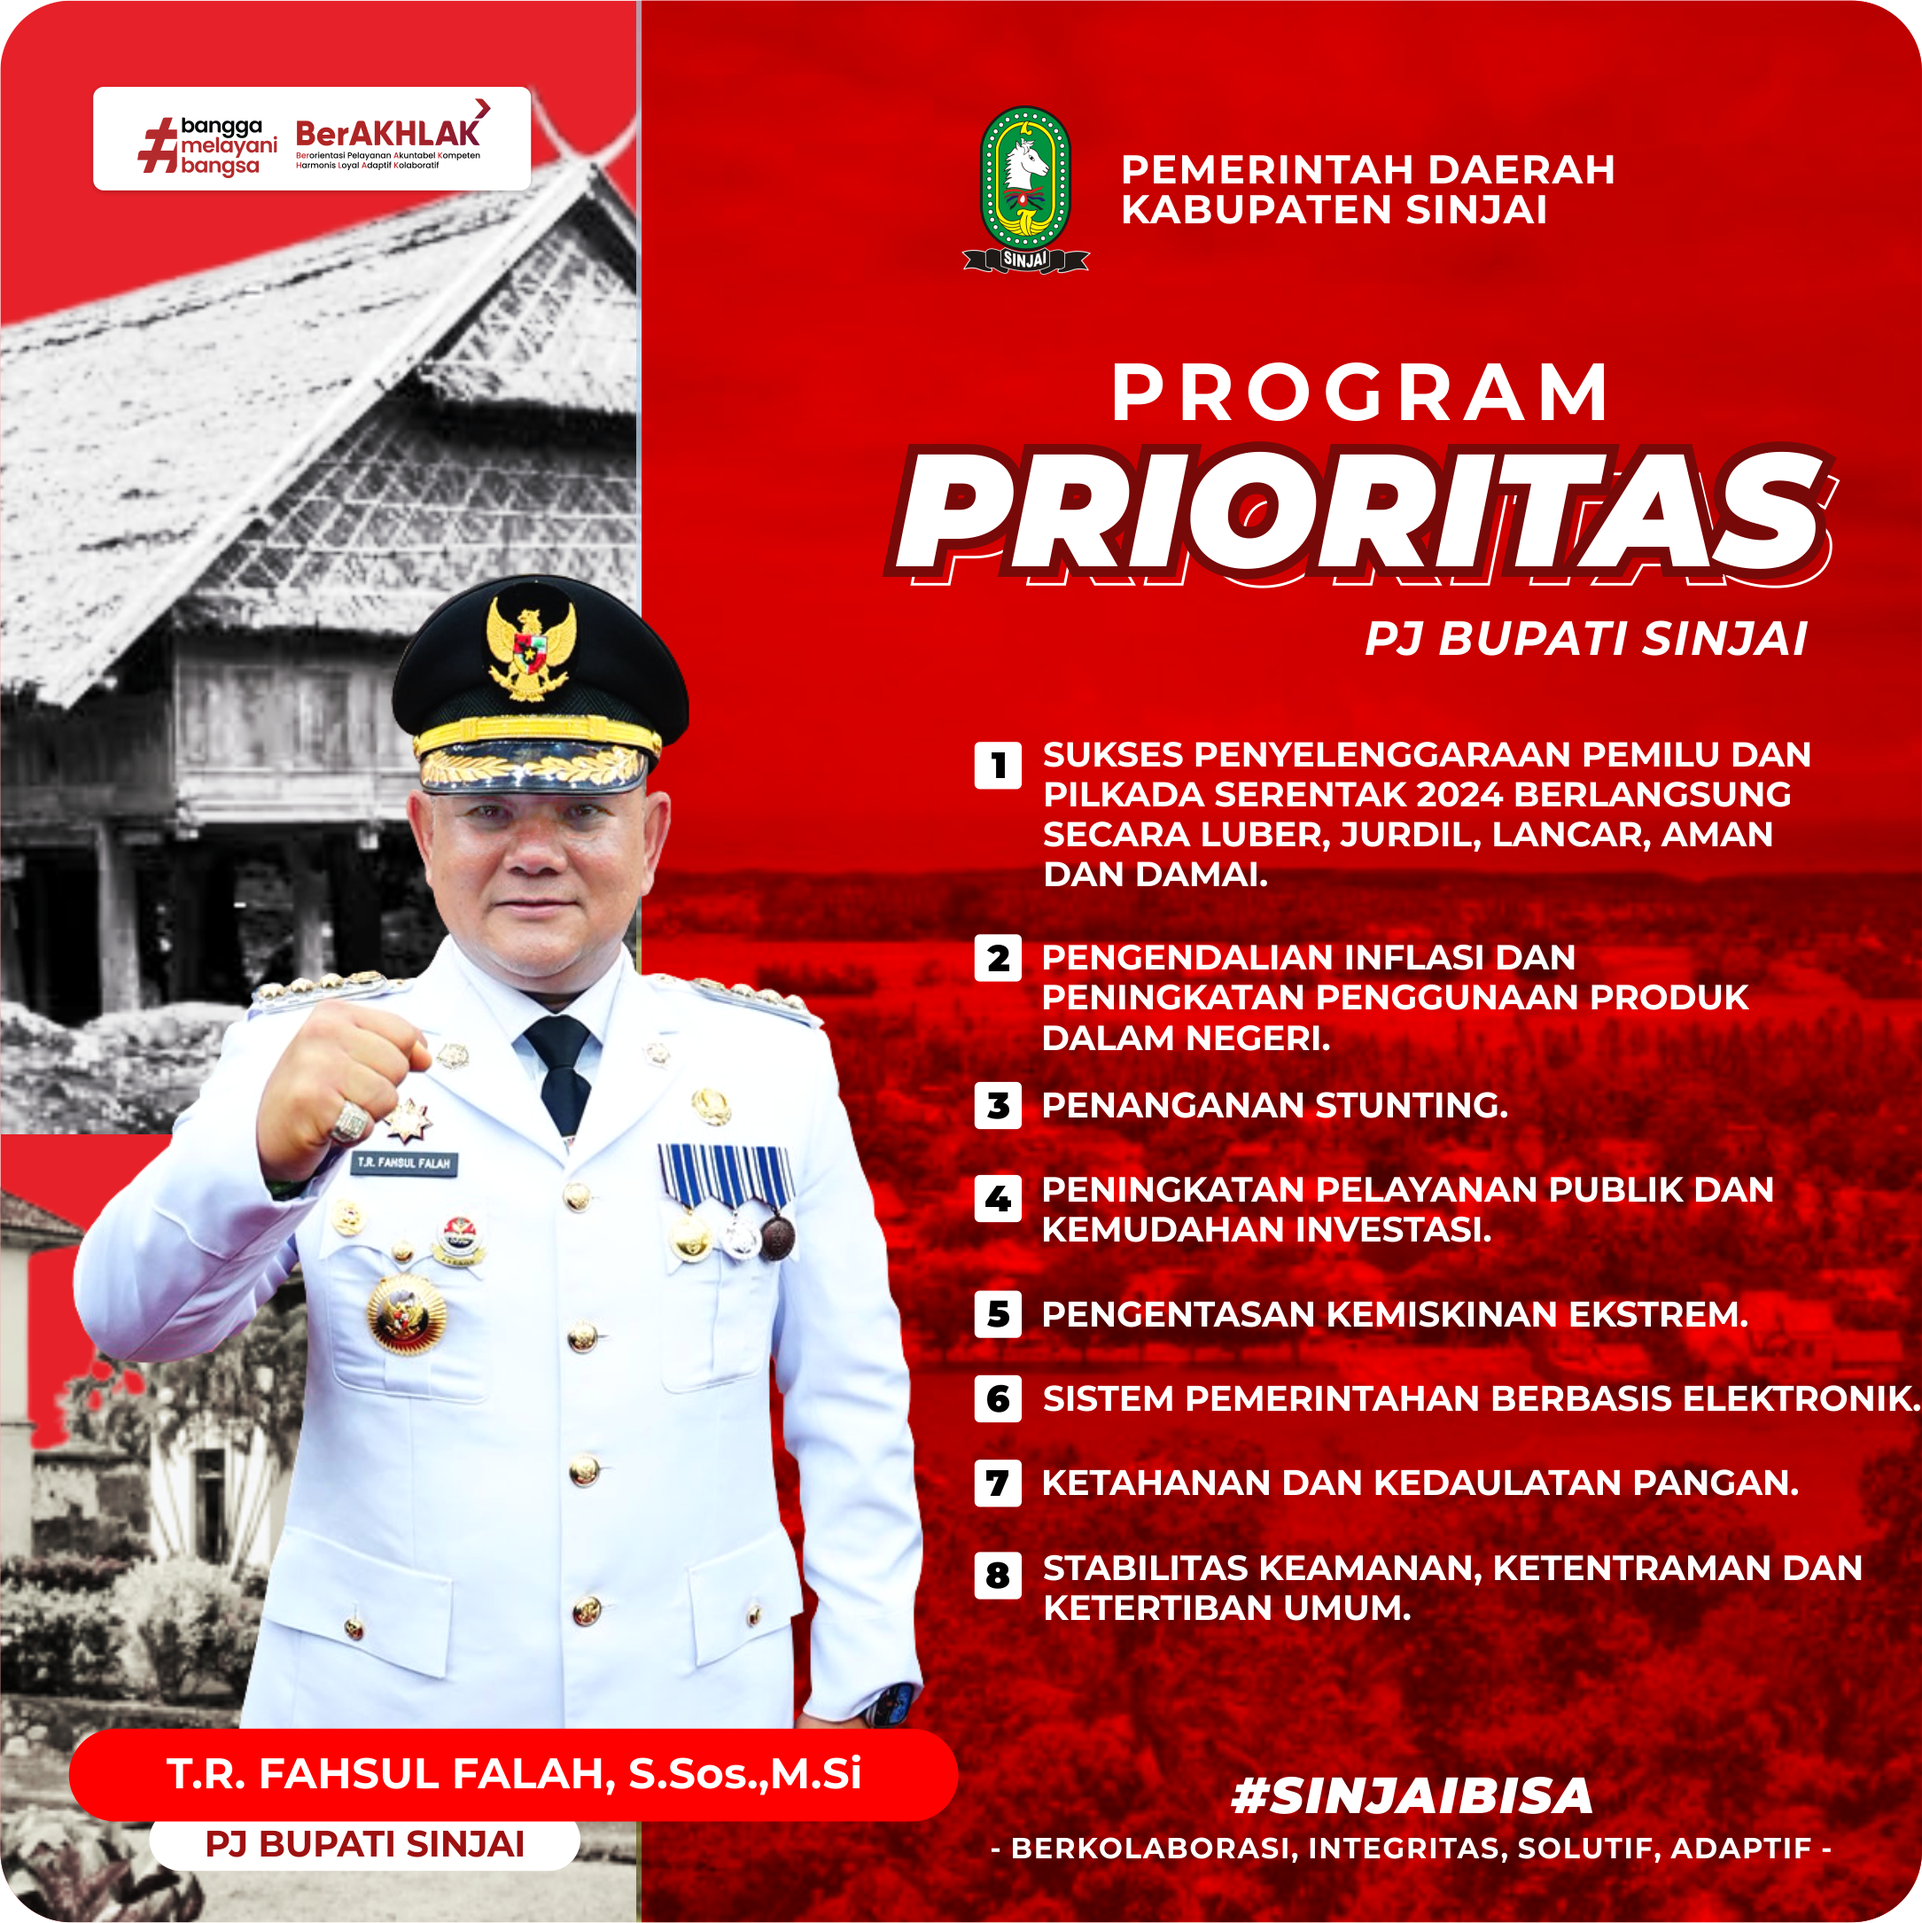
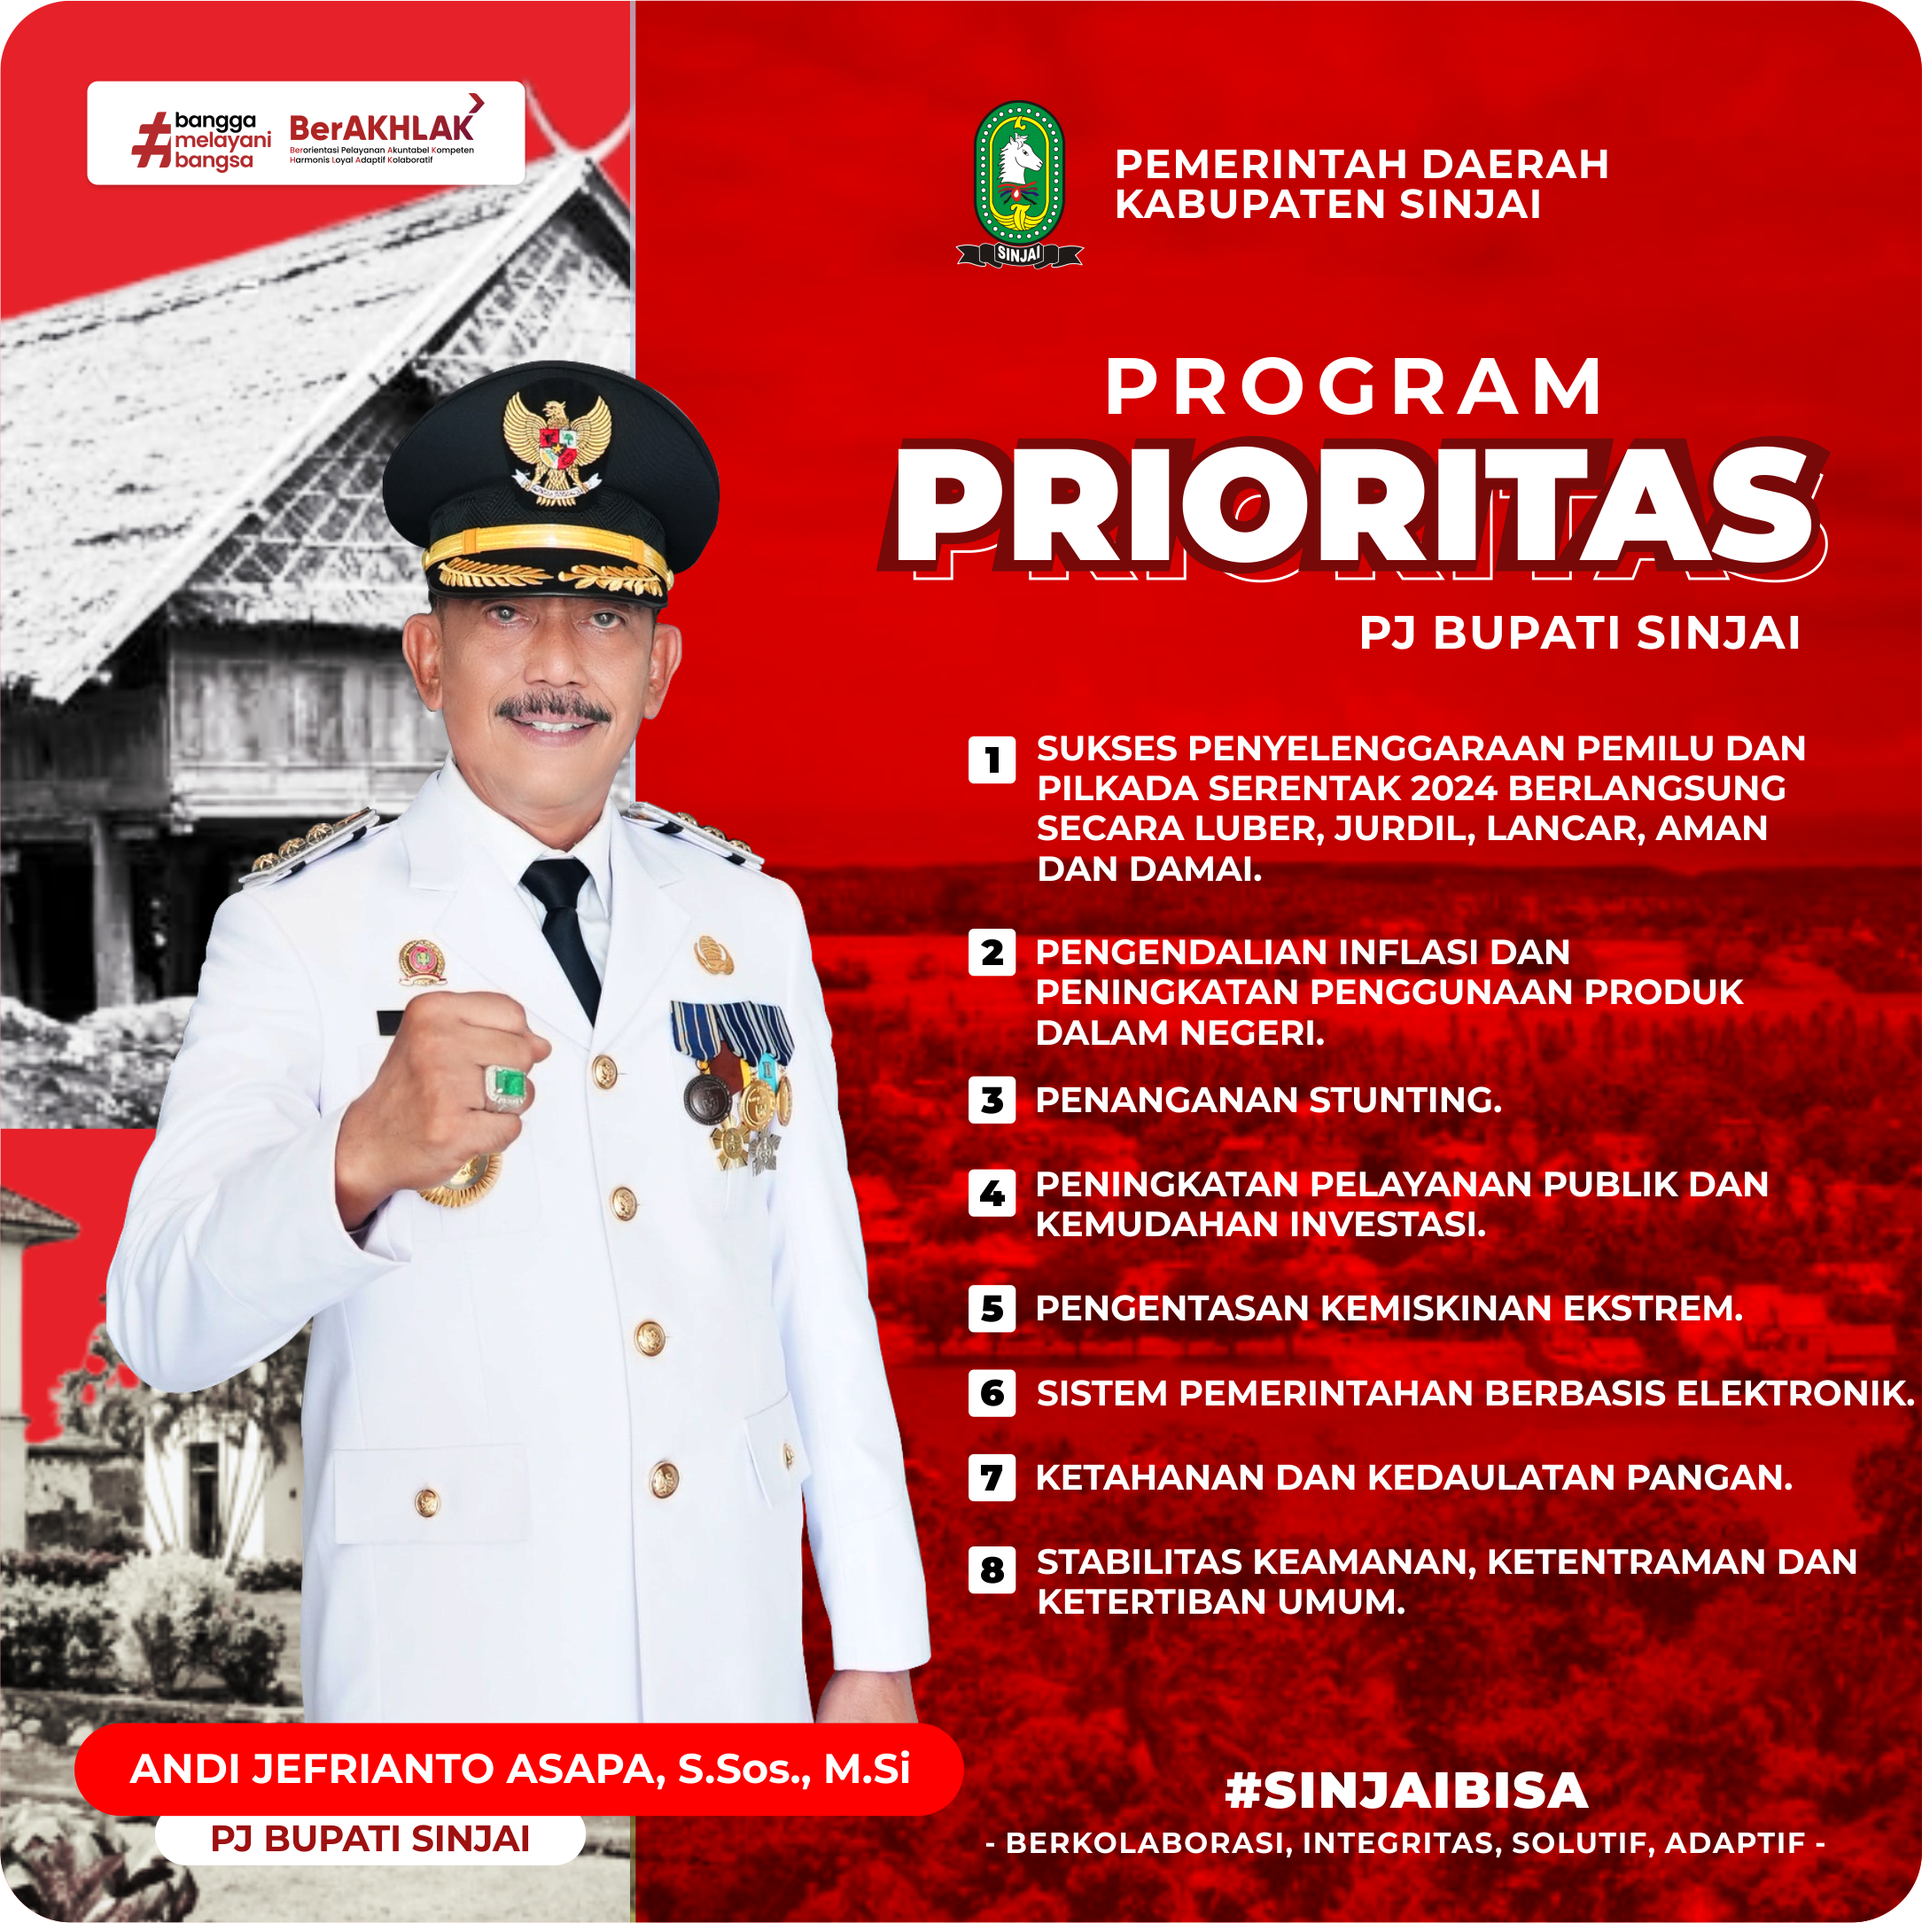
change photo, change meta image, change footer

diff --git a/app.vue b/app.vue
@@ -129,7 +129,7 @@ const menusRight = [
 
 const slides = [
   {
-    name: "pjibu",
+    name: "selamat",
   },
   {
     name: "programpj",
@@ -157,10 +157,9 @@ const slides = [
         <div
           class="grid grid-cols-2 md:grid-cols-4 gap-4 lg:gap-6 py-4 items-center"
         >
-          <div
-            class="col-span-2 flex justify-center items-center md:order-2 overflow-hidden"
-          >
-            <Swiper
+          <div class="col-span-2 flex justify-center items-center md:order-2">
+            <SwipeContent :name="slides[0].name" />
+            <!-- <Swiper
               :modules="[
                 SwiperAutoplay,
                 SwiperEffectFade,
@@ -185,7 +184,7 @@ const slides = [
               <SwiperSlide v-for="slide in slides" :key="slide.name">
                 <SwipeContent :name="slide.name" />
               </SwiperSlide>
-            </Swiper>
+            </Swiper> -->
           </div>
 
           <div class="grid grid-cols-2 gap-4 lg:gap-6 md:order-1">

diff --git a/components/Footer.vue b/components/Footer.vue
@@ -4,6 +4,6 @@ const currYear = new Date().getFullYear();
 
 <template>
   <div class="text-center text-xs">
-    &copy; {{ currYear }} Diskominfosandi Sinjai
+    &copy; {{ currYear }} Dinas Komunikasi Informatika dan Persandian
   </div>
 </template>
